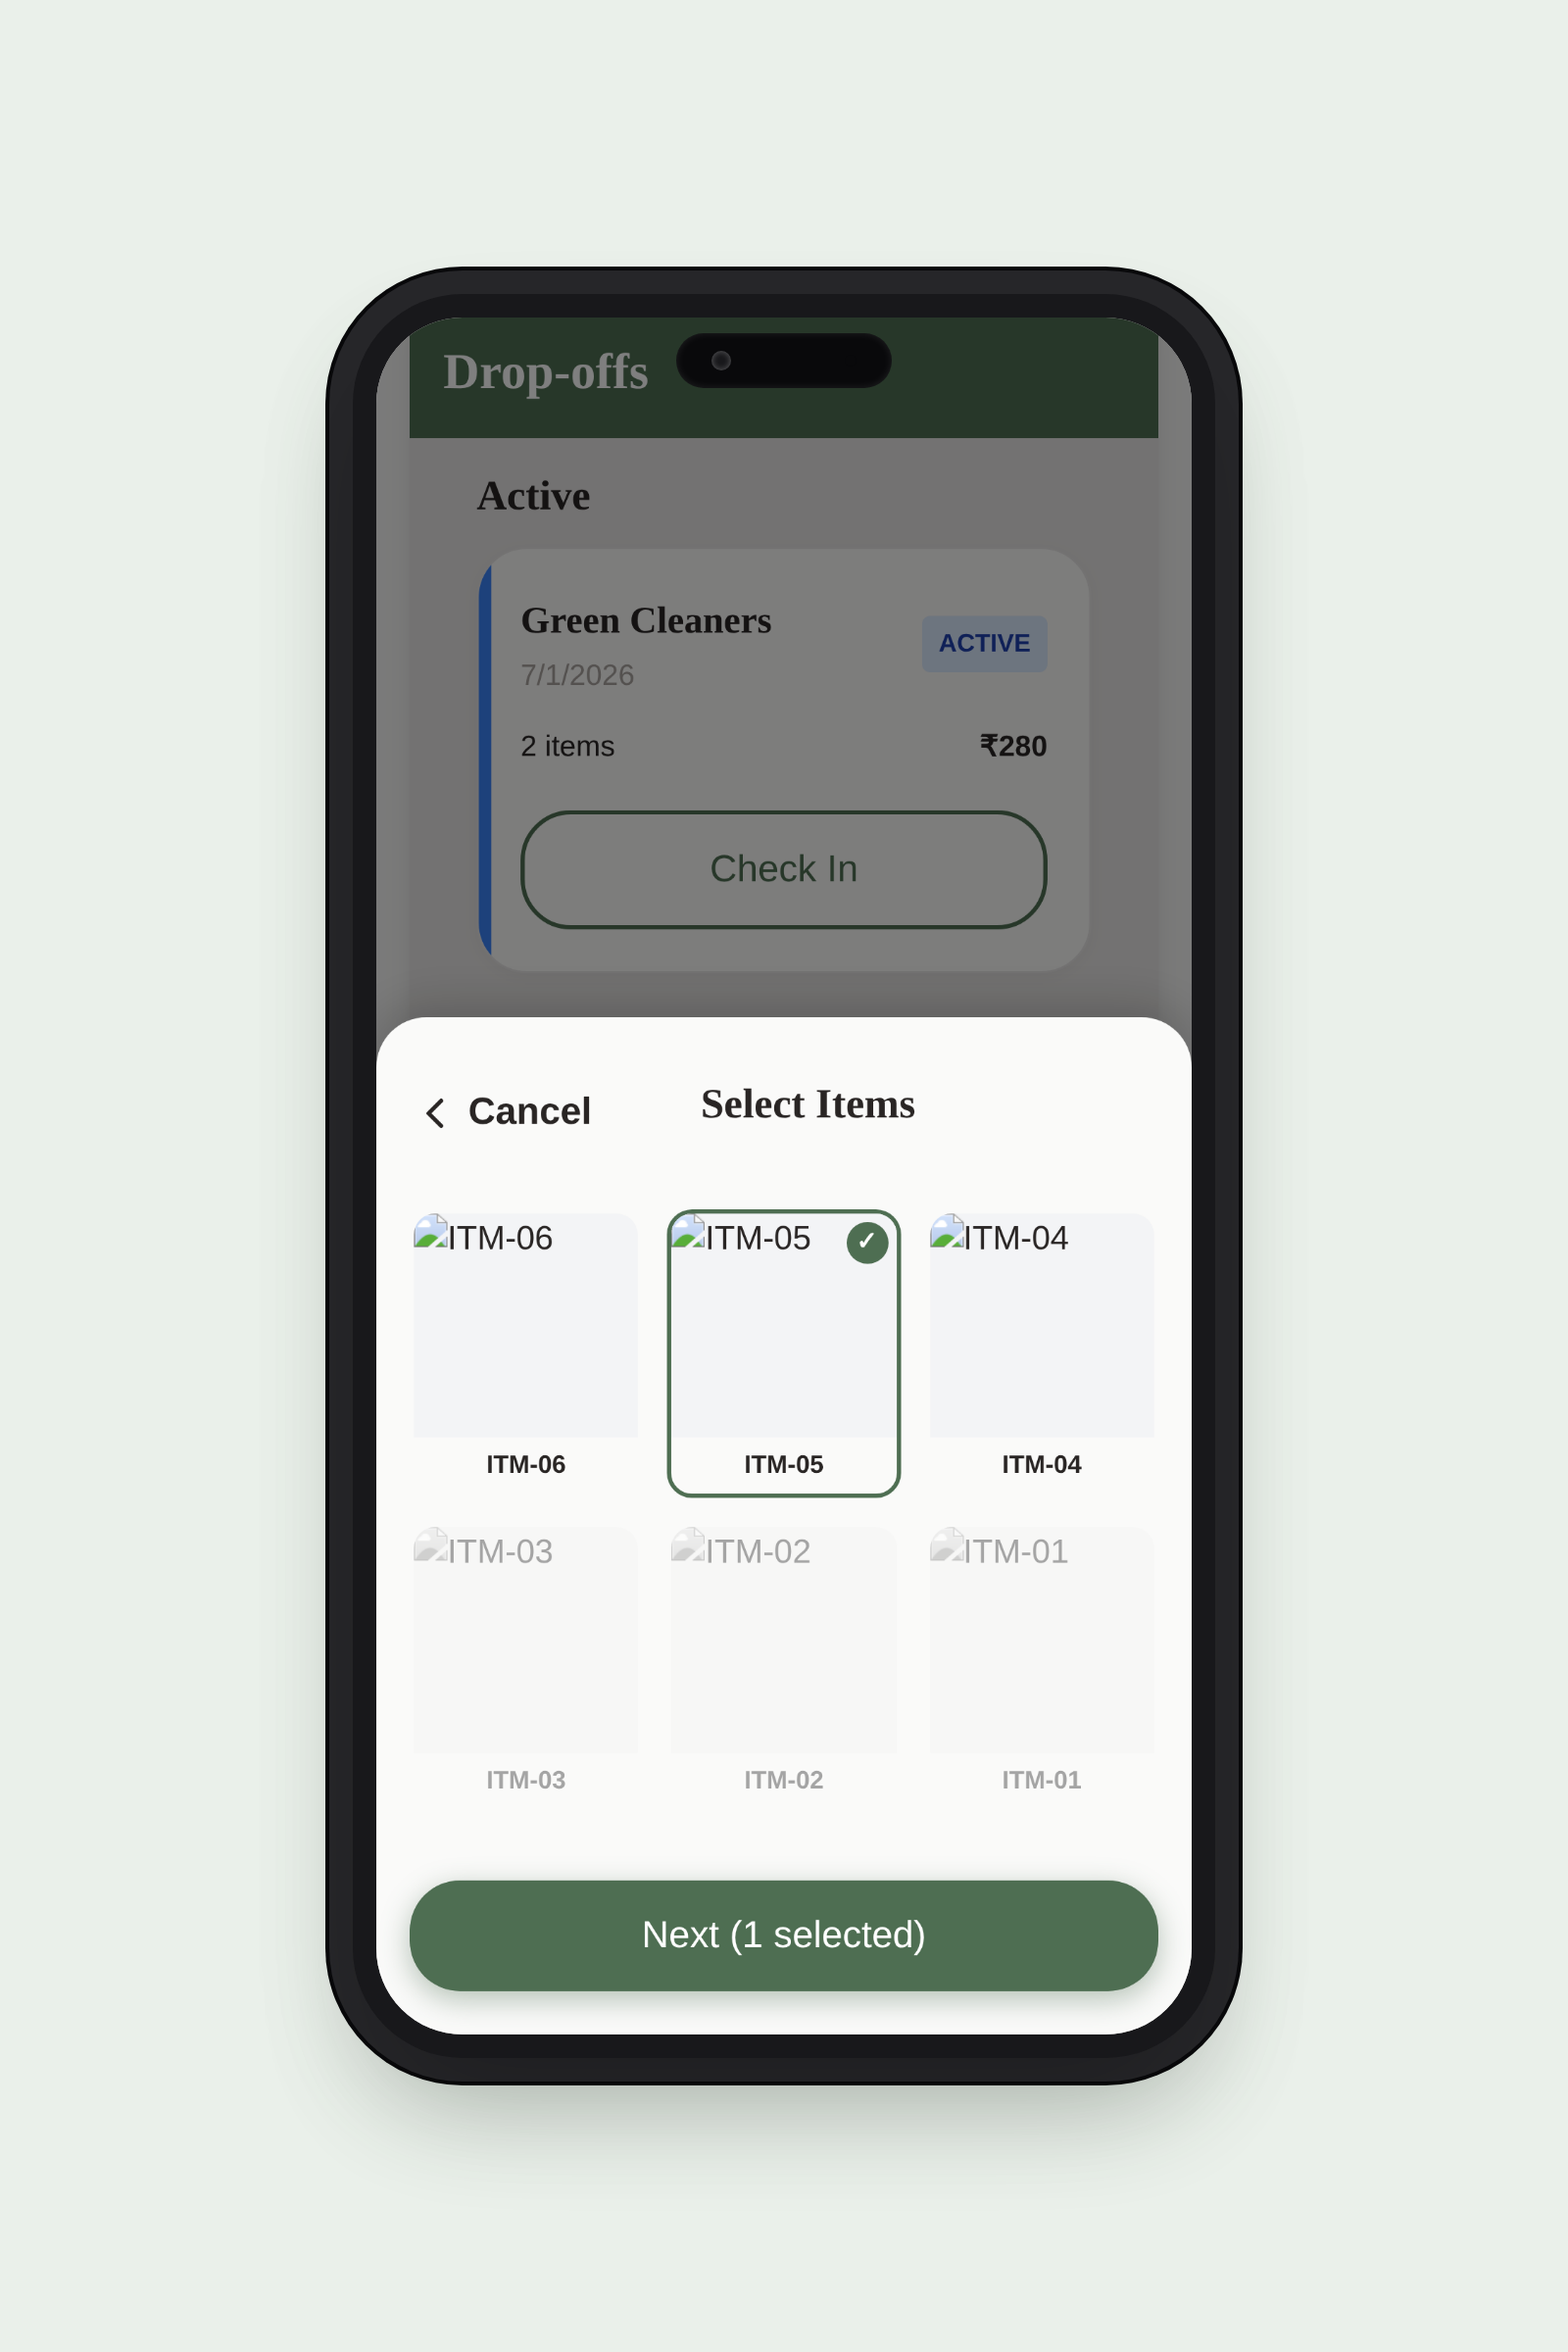
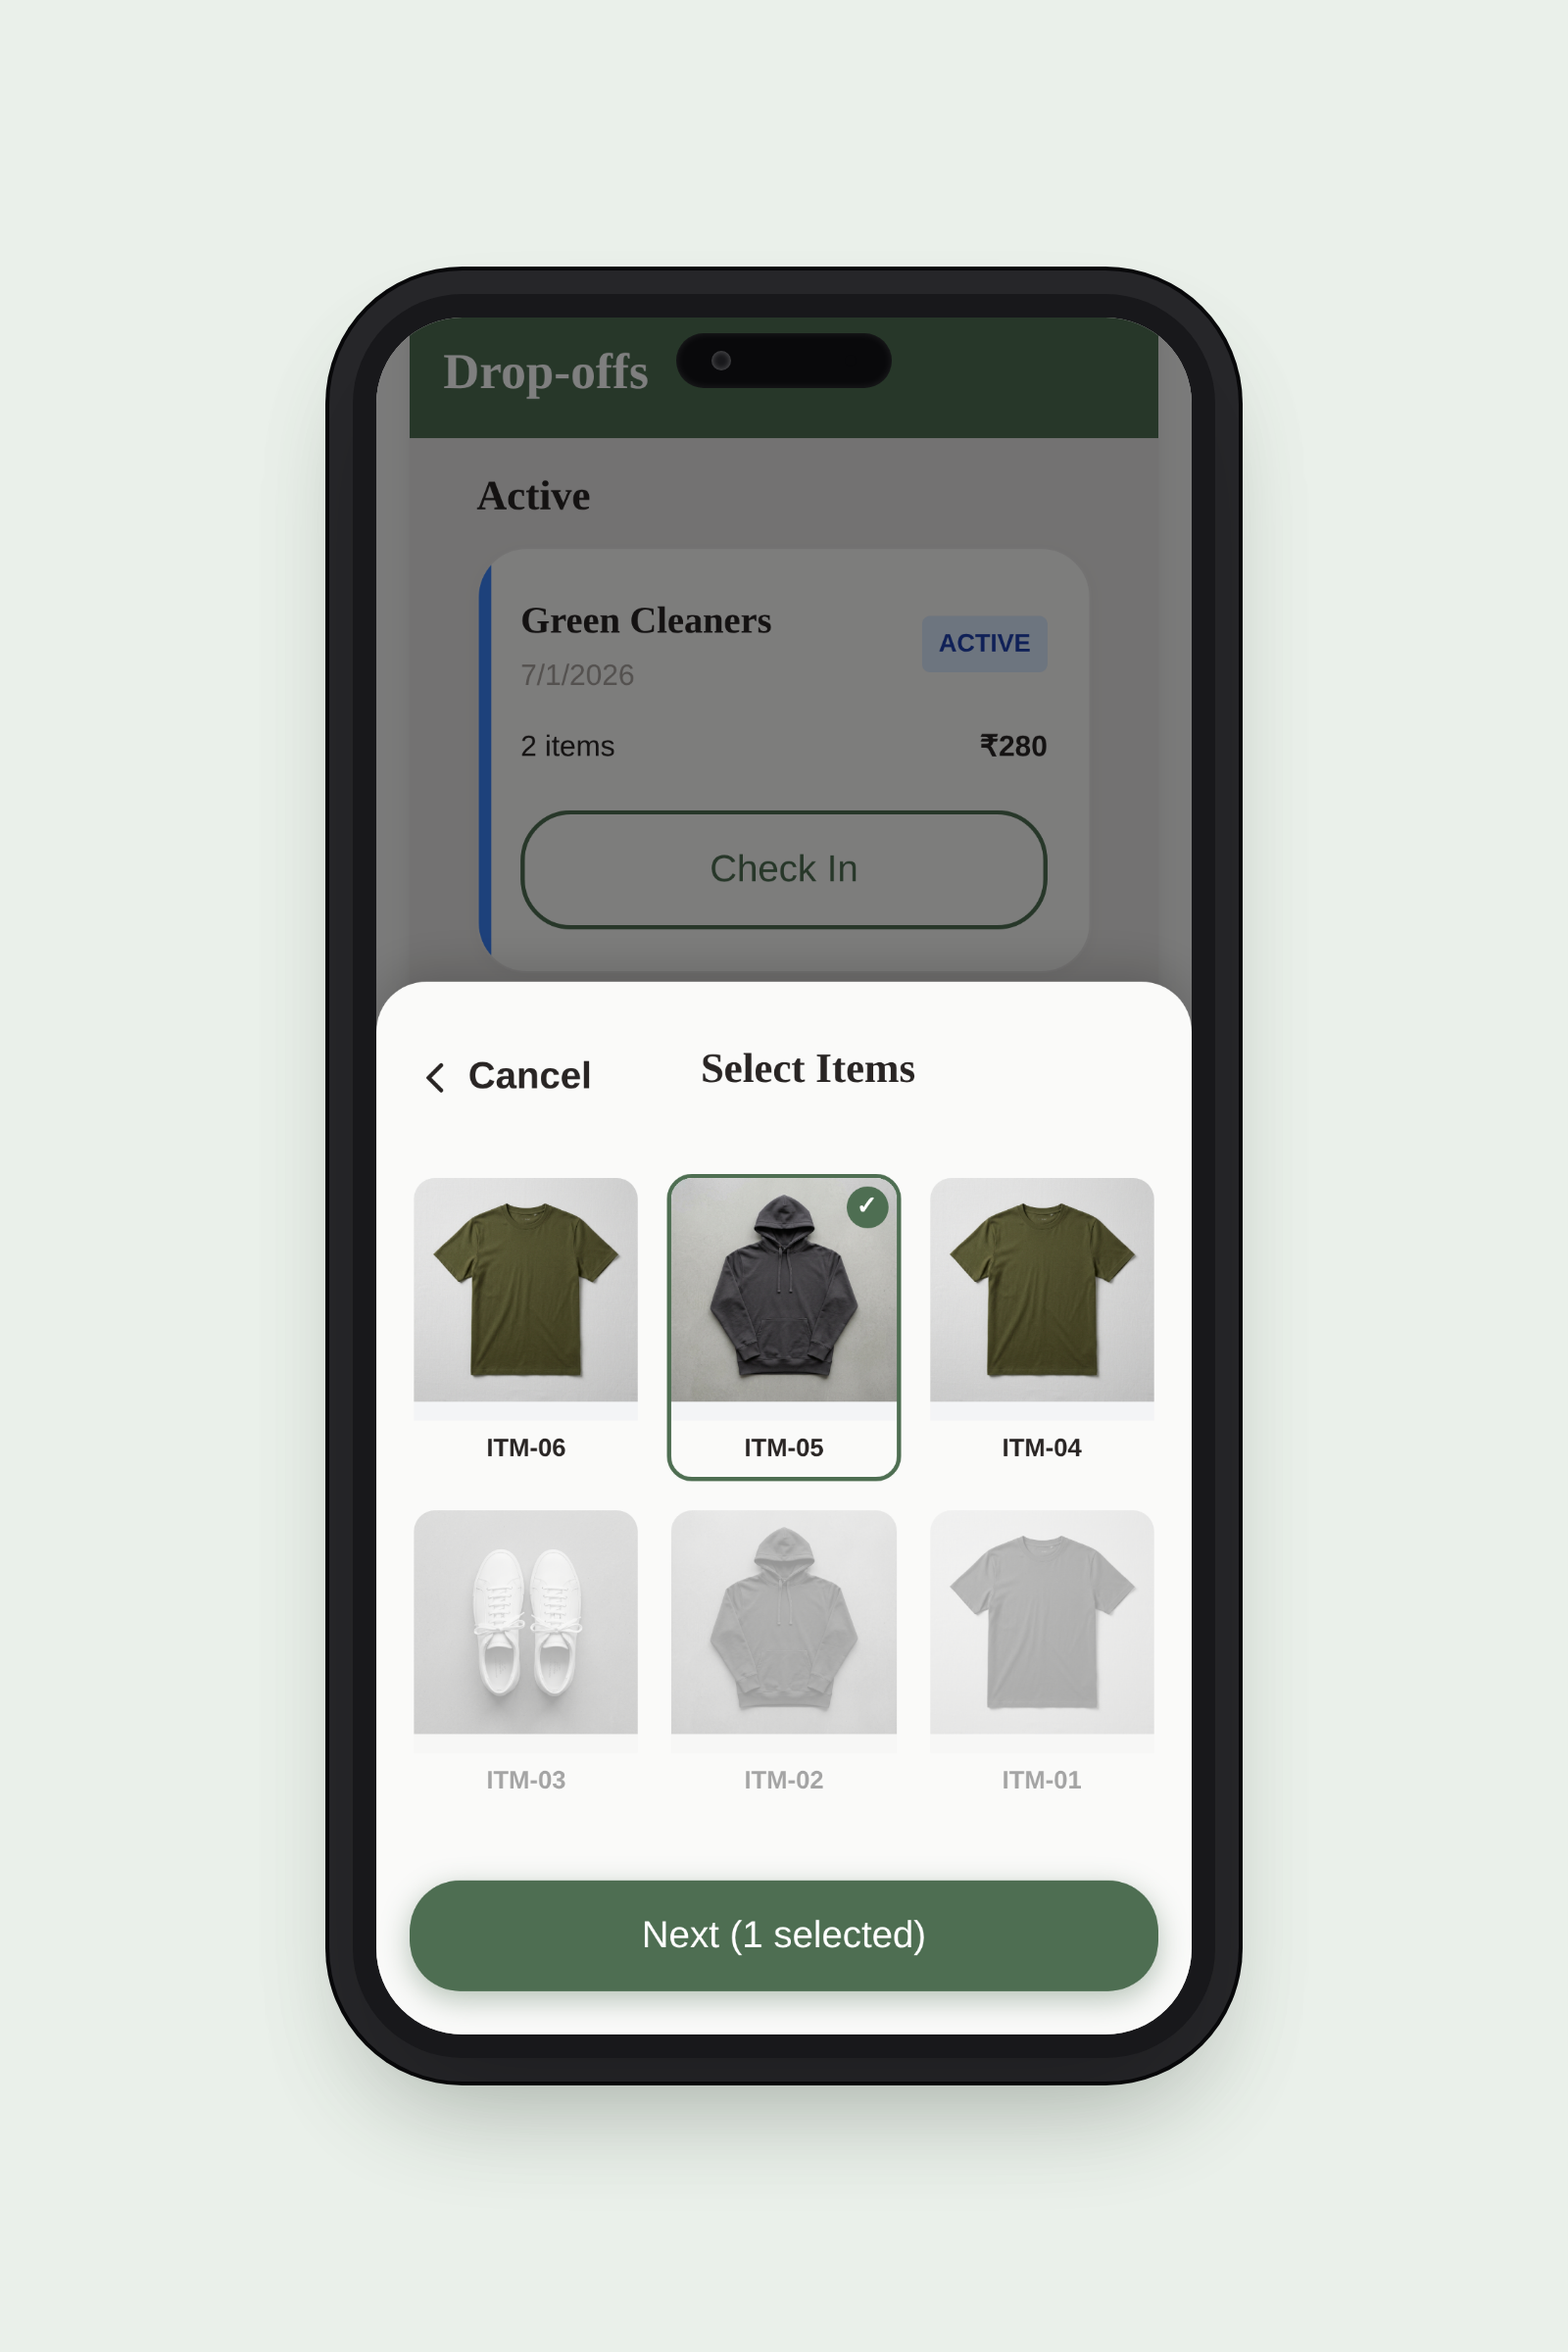
fix(gallery): restore garment photos broken by the Pages base path; add more USER_GUIDE screenshots
The last gallery regeneration ran after base '/laundristic-p1/' was
introduced: the Vite dev server moved to the subpath, the screenshot
script's absolute fetch of /mock/*.png started returning 404 HTML, and
every seeded photo blob rendered as a broken-image tile (wardrobe,
drop-off, check-in, proof).

- generate_screenshots.mjs: navigate to the base-path URL, fetch mock
  assets with relative paths, and fail loudly if a mock asset doesn't
  come back as an image (so this can't silently regress again).
- record_demo.mjs: static server now strips the base prefix so the
  built app (whose assets reference /laundristic-p1/...) still runs.
- gallery/: regenerated — garment photos restored everywhere.
- USER_GUIDE.md: added the requested screenshots to §3 Checking In
  (checkin.png), §4 Proof Screen (proof.png), §5 Share PDF (receipt.png).

Verified: wardrobe + proof shots visually confirmed with photos;
prettier, lint, 138 tests pass.

Changed region(s): [[0.25, 0.4062, 0.7812, 0.75], [0.5938, 0.6562, 0.7188, 0.75]]

diff --git a/docs/USER_GUIDE.md b/docs/USER_GUIDE.md
@@ -34,6 +34,8 @@ When you pick up your laundry, it's time to check it in.
    - The batch will now move to the **Awaiting items** section.
    - The un-ticked items are flagged as **missing**.
 
+<img src="../gallery/checkin.png" alt="Check-in sheet with items ticked for return" width="360" />
+
 ## 4. The Proof Screen & Resolving Missing Items
 
 If a batch is stuck in "Awaiting items", you need to deal with the shop.
@@ -44,6 +46,8 @@ If a batch is stuck in "Awaiting items", you need to deal with the shop.
    - If they find it: Tap the item and mark it as **Found**.
    - If they lost it: Tap the item and mark it as **Lost**. (This removes the item from your active Wardrobe).
 4. Once all missing items are resolved, the batch automatically closes!
+
+<img src="../gallery/proof.png" alt="Proof screen showing the missing garment's photo, receipt, shop name and date" width="360" />
 
 ## 5. Sharing a Receipt (PDF)
 
@@ -56,6 +60,8 @@ When a batch is closed, you can share its receipt as a PDF — useful for reimbu
 The PDF includes the shop name, date, total, the receipt photo at full resolution, and a list of every garment in the batch with its photo and ID.
 
 > ℹ Sharing files via the iOS share sheet requires HTTPS — it works in the installed PWA and on the live site, but not in a local desktop dev tab.
+
+<img src="../gallery/receipt.png" alt="Generated receipt PDF with shop, date, total, receipt photo and garment list" width="360" />
 
 ## 6. Stats
 
